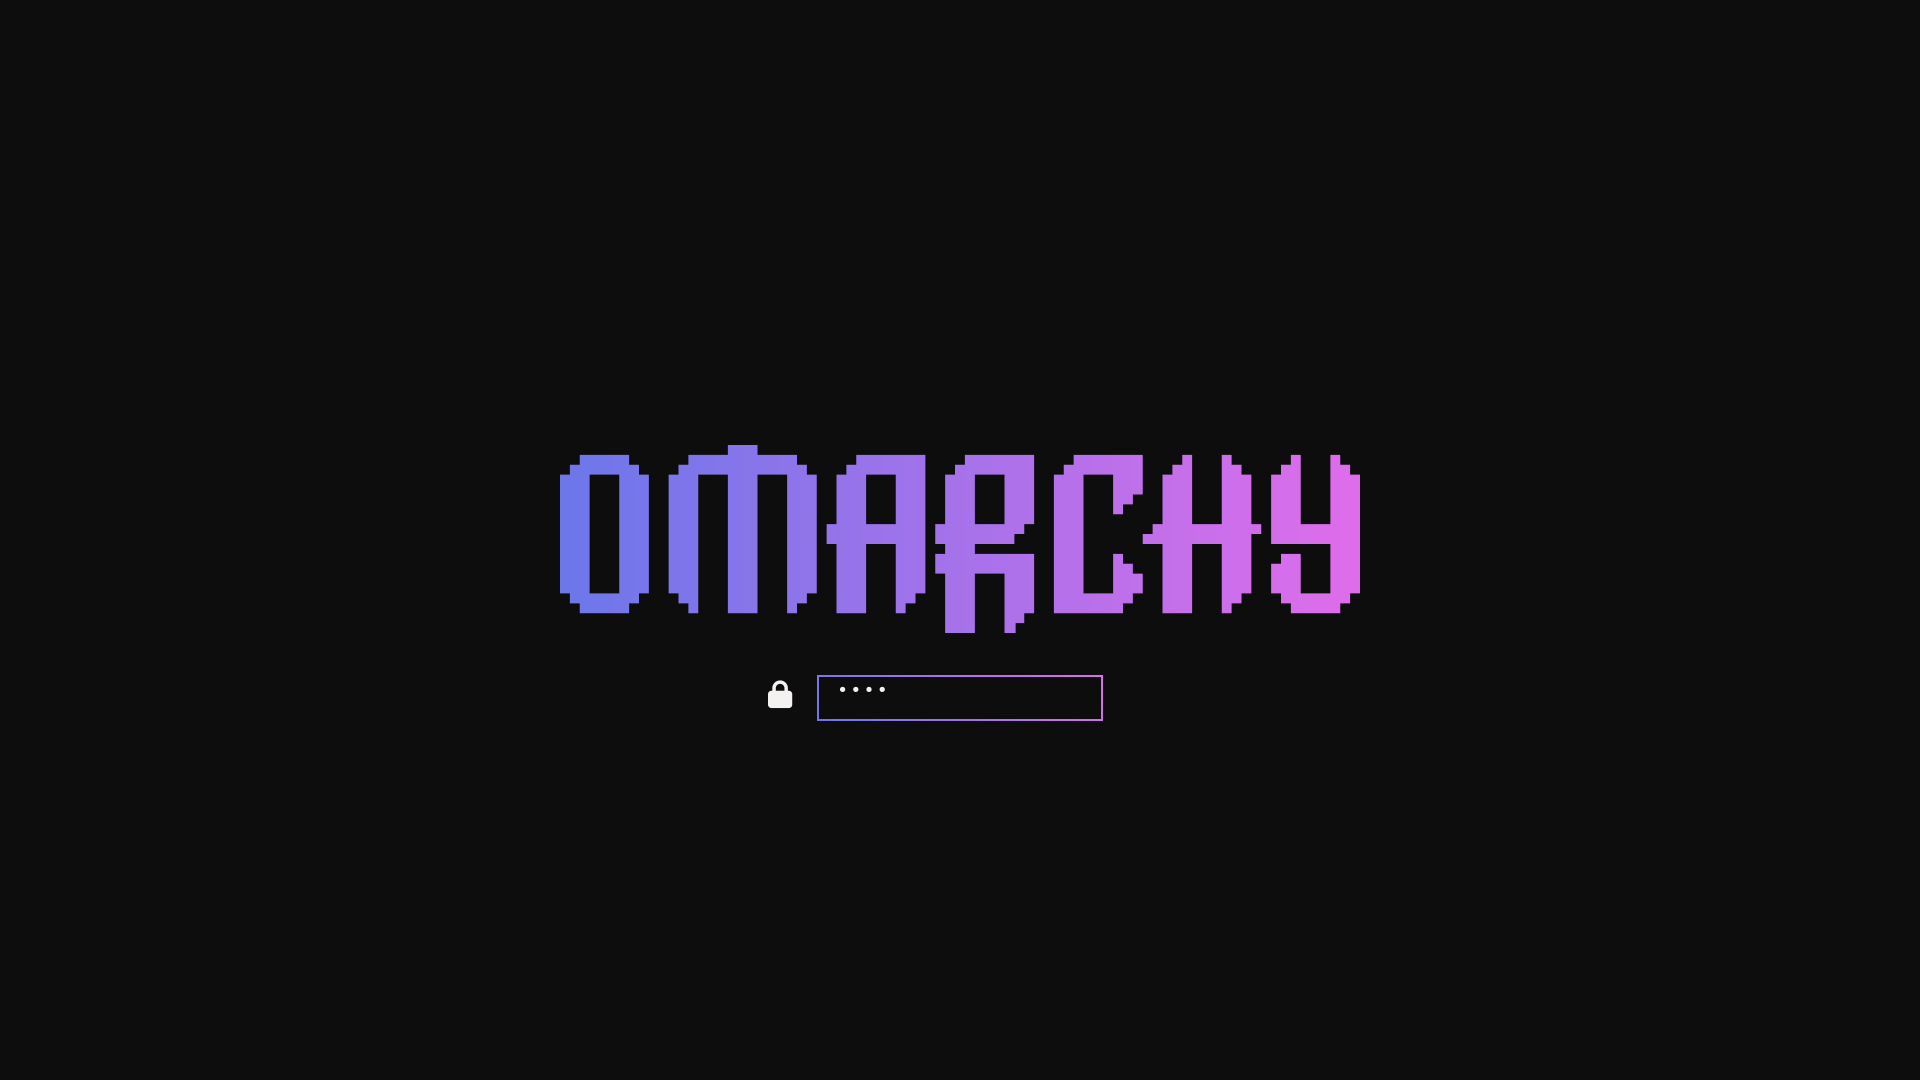
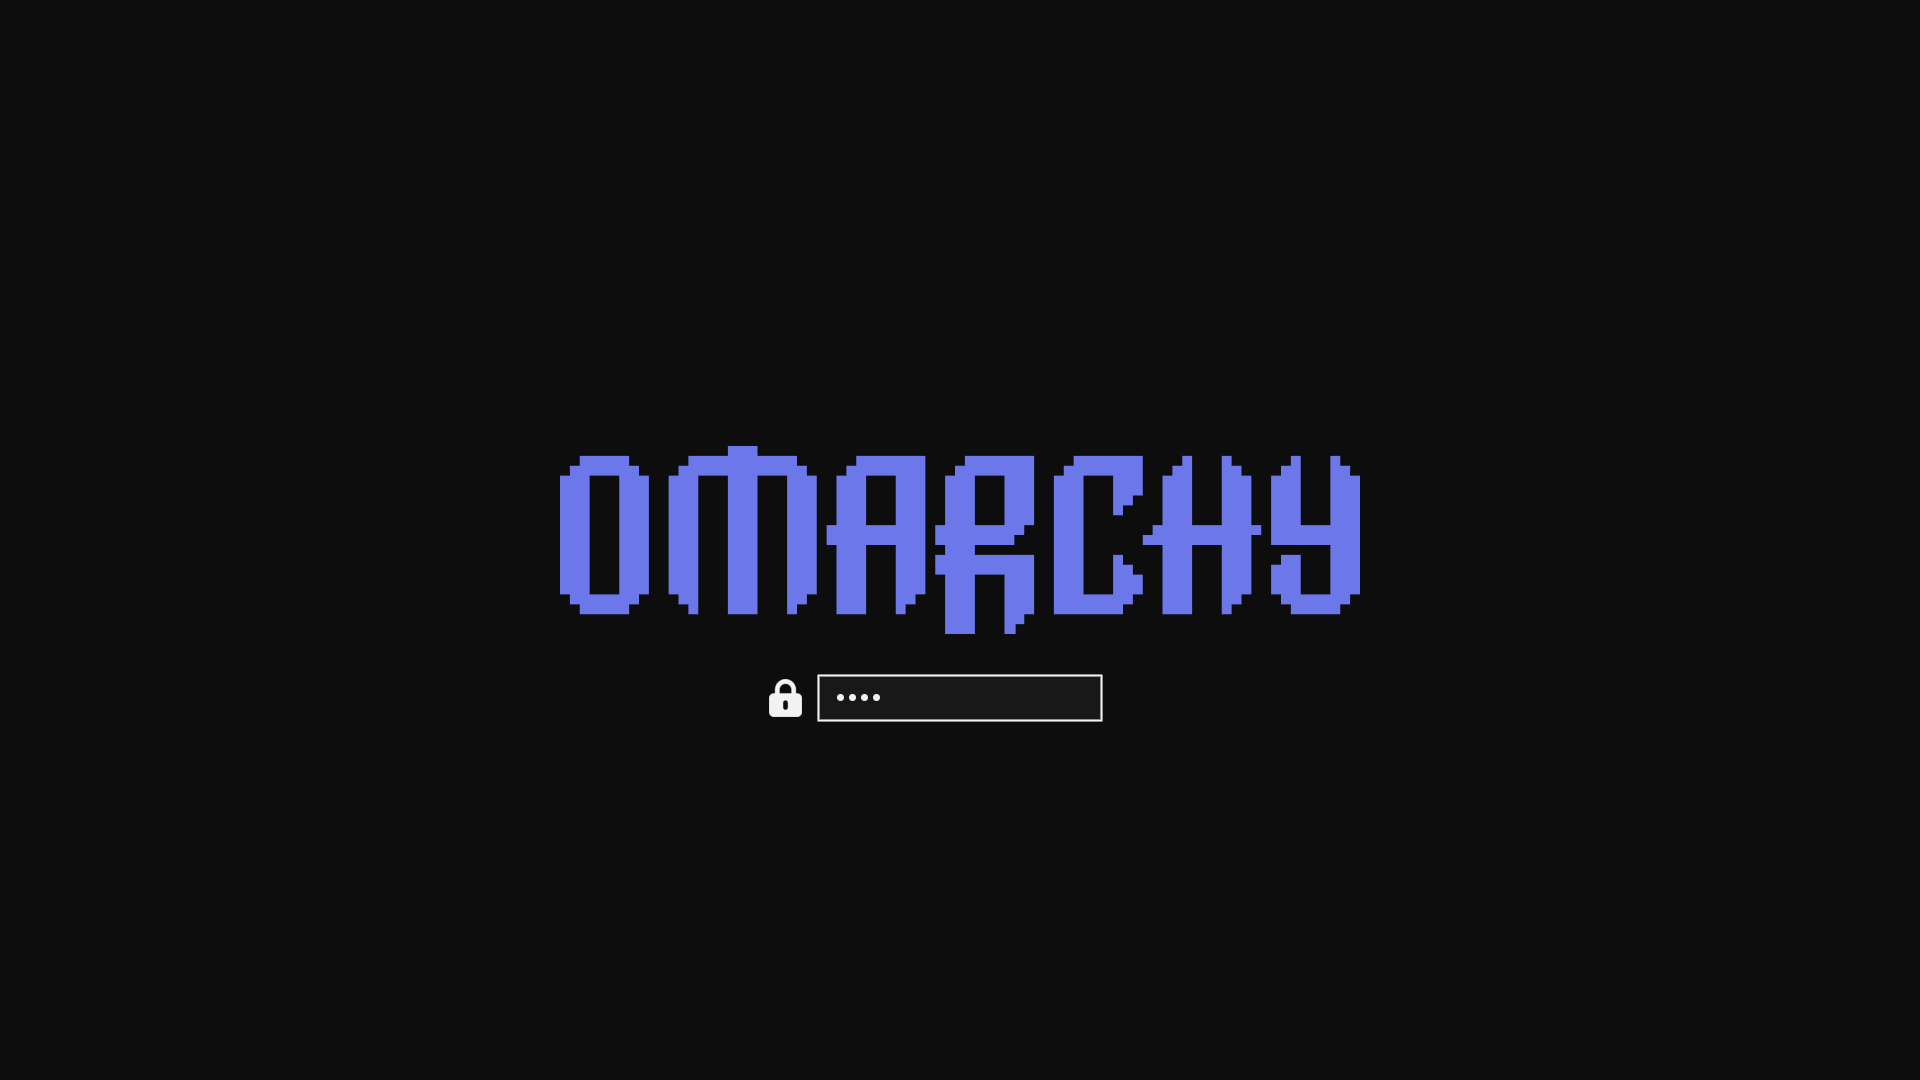
Flat accent window border, wordmark and Plymouth preview
- drop hyprland_active_border: the focused-window border is the plain accent again
- unlock.png and backgrounds/omarchy.webp use the flat accent like the built-in themes
- preview-unlock.png generated with omarchy plymouth preview (background + foreground + unlock.png)
- README: correct menu shortcut (Super + Space), file descriptions

Changed region(s): [[0.375, 0.3972, 0.7188, 0.5806], [0.4062, 0.6111, 0.4688, 0.6722]]

diff --git a/README.md b/README.md
@@ -10,7 +10,7 @@ A dark [Omarchy](https://omarchy.org) theme: near-black surfaces, soft white tex
 omarchy theme install https://github.com/JackRubiralta/omarchy-purple-mountains-theme
 ```
 
-Or in Omarchy: **Super + Alt + Space → Install → Style → Theme** and paste the URL above. The theme shows up as **purple-mountains** in the theme switcher.
+Or in Omarchy: **Super + Space → Install → Style → Theme** and paste the URL above. The theme shows up as **purple-mountains** in the theme switcher.
 
 ## Palette
 
@@ -27,20 +27,18 @@ Or in Omarchy: **Super + Alt + Space → Install → Style → Theme** and paste
 | cyan | `#72bdf0` | | bright cyan | `#8ac9f4` |
 | orange | `#f39065` | | brown | `#915353` |
 
-The focused-window border is a violet-to-orchid gradient (`hyprland_active_border`), which the Omarchy shell reuses for popup and notification borders.
-
 Everything else (terminals, btop, Neovim via aether.nvim, the Omarchy shell, Hyprland borders, Chromium, VS Code, Obsidian, …) is generated by Omarchy from `colors.toml`.
 
 ## What's inside
 
 ```
-colors.toml          palette (Omarchy 4 semantic format) + the gradient window border
+colors.toml          palette (Omarchy 4 semantic format)
 icons.theme          Yaru-magenta
 keyboard.rgb         keyboard backlight colour for supported laptops (accent)
 backgrounds/         1-purple-mountains.jpg (the wallpaper), omarchy.webp (plain branded wallpaper in the palette)
-unlock.png           lock-screen wordmark in the violet-to-orchid gradient
+unlock.png           lock-screen / boot-splash wordmark in the accent colour
 preview.png          shown in the theme switcher and on themes.omarchy.org
-preview-unlock.png   lock-screen preview for the Style > Unlock picker
+preview-unlock.png   boot-splash thumbnail for the Plymouth unlock-screen switcher (generated with `omarchy plymouth preview`)
 ```
 
 Terminal configs, Neovim and VS Code are generated by Omarchy from `colors.toml` on install, so this repo does not ship them (Omarchy drops those files from git-installed themes anyway).
